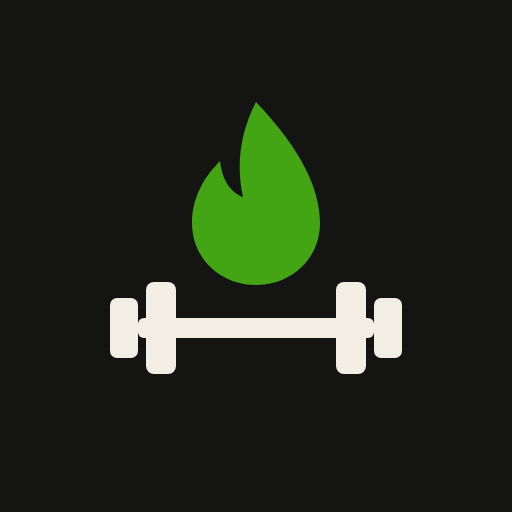
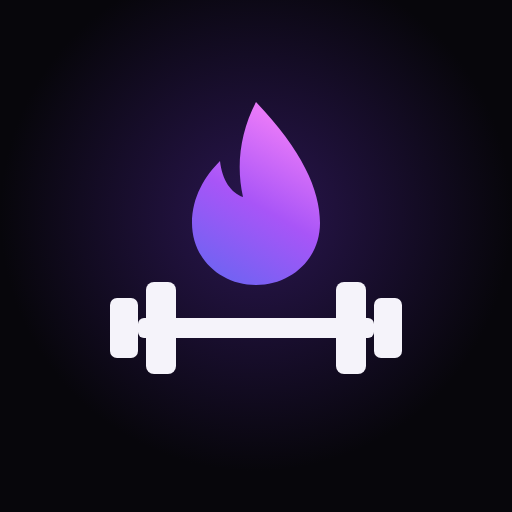
Violet neon palette, following the reference designs (#12)
- Dark: near-black page (#07060B), cards a step up (#121017) with a
  faint border and rounder corners, white/lavender-grey text.
- Primary buttons, selected segments and chips use a violet -> indigo
  gradient with a soft glow; the "Tempo" wordmark is gradient text; the
  selected tab is a violet tint.
- Light: pale lavender page, white cards, the same violet accents.
- Macro colours: pink protein, blue carbs, lavender fat, cyan water.
- Status colours keep their meaning (yellow below, Kelly on target, red
  over, Forest for fine-over); yellow warmed to amber and red to rose to
  sit with the violet.
- Icon: violet-to-pink gradient flame and white barbell on black with a
  faint violet glow. Manifest and theme colour follow.

Claude-Session: https://claude.ai/code/session_01NXvNAYrFZNhhmhDJaAwaWJ

Changed region(s): [[0.2188, 0.1562, 0.7812, 0.625], [0.4062, 0.6562, 0.5938, 0.6875]]

diff --git a/index.html b/index.html
@@ -6,7 +6,7 @@
 <meta name="apple-mobile-web-app-capable" content="yes">
 <meta name="mobile-web-app-capable" content="yes">
 <meta name="apple-mobile-web-app-title" content="MaxxTempo">
-<meta name="theme-color" content="#F6F1E7">
+<meta name="theme-color" content="#07060B">
 <script>try{var t=localStorage.getItem("mt:theme");if(t==="light"||t==="dark")document.documentElement.dataset.theme=t;}catch(e){}</script>
 <title>MaxxTempo</title>
 <meta name="description" content="Food, training, recovery and health tracking, with AI reading what you type.">
@@ -18,35 +18,38 @@
 <link rel="stylesheet" href="https://fonts.googleapis.com/css2?family=Barlow+Condensed:wght@500;600;700&family=Public+Sans:wght@400;500;600;700&display=swap">
 <style>
 :root{
-  --bg:#F6F1E7; --surface:#FFFFFF; --surface-2:#EDE4D3; --ink:#2A2B28; --ink-2:#55574F; --ink-3:#7A7C73; --line:#E1D6C2;
-  --accent:#1E7A1E; --accent-ink:#FFFFFF; --accent-text:#1A6B1A;
-  --protein:#C0643A; --carbs:#B8901A; --fat:#7B5EA7; --water:#3C7FB8;
-  --good:#297A33; --warn:#B7791F; --bad:#C0453A;
-  --btn:#1E7A1E; --btn-ink:#FFFFFF; --focus:#1E7A1E;
-  --tab-on:#1E7A1E; --tab-on-ink:#FFFFFF; --label-line:#2A2B28;
-  --st-under:#D4A72C; --st-under-t:#946F00; --st-at:#43A514; --st-at-t:#297A0B; --st-over:#D64533; --st-over-t:#C0392B; --st-plus:#1E7A1E; --st-plus-t:#1A6B1A;
+  --bg:#F4F1FB; --surface:#FFFFFF; --surface-2:#ECE6F8; --ink:#16131F; --ink-2:#4B4560; --ink-3:#736D86; --line:#E1D9F2;
+  --accent:#6D4AFF; --accent-ink:#FFFFFF; --accent-text:#5B3BE6;
+  --grad:linear-gradient(90deg,#9B5CF6 0%,#5B5BF0 100%); --glow:0 6px 18px rgba(109,74,255,.28);
+  --protein:#DB2777; --carbs:#2563EB; --fat:#8B5CF6; --water:#0891B2;
+  --good:#297A33; --warn:#B7791F; --bad:#D6334B;
+  --btn:#6D4AFF; --btn-ink:#FFFFFF; --focus:#6D4AFF;
+  --tab-on:rgba(109,74,255,.12); --tab-on-ink:#5B3BE6; --label-line:#16131F;
+  --st-under:#E0A21E; --st-under-t:#946400; --st-at:#43A514; --st-at-t:#297A0B; --st-over:#E03A55; --st-over-t:#C42A45; --st-plus:#1E7A1E; --st-plus-t:#1A6B1A;
   --display:"Barlow Condensed","Arial Narrow",Arial,sans-serif;
   --body:"Public Sans",system-ui,-apple-system,"Segoe UI",Roboto,sans-serif;
 }
 @media (prefers-color-scheme: dark){
   :root:not([data-theme="light"]){
     color-scheme:dark;
-    --bg:#141513; --surface:#1E201D; --surface-2:#2A2D29; --ink:#EAE4D6; --ink-2:#C2BAA6; --ink-3:#958F80; --line:#343831;
-    --accent:#43A514; --accent-ink:#141513; --accent-text:#5FB635;
-    --protein:#D98A62; --carbs:#CFAE4E; --fat:#A48DD0; --water:#6FA2CF;
-    --good:#6DB35E; --warn:#D9A03E; --bad:#E07A6E; --btn:#43A514; --btn-ink:#141513; --focus:#5FB635;
-    --tab-on:rgba(95,182,53,.16); --tab-on-ink:#6DC444; --label-line:#5A5E55;
-    --st-under:#D9AE45; --st-under-t:#E2BC5E; --st-at:#43A514; --st-at-t:#5FB635; --st-over:#DB5A4D; --st-over-t:#EE7E72; --st-plus:#288B37; --st-plus-t:#48A655;
+    --bg:#07060B; --surface:#121017; --surface-2:#1E1B26; --ink:#F5F3FA; --ink-2:#B3ADC4; --ink-3:#817B93; --line:#26222F;
+    --accent:#8B5CF6; --accent-ink:#FFFFFF; --accent-text:#A78BFA;
+    --grad:linear-gradient(90deg,#A855F7 0%,#6366F1 100%); --glow:0 0 22px rgba(139,92,246,.45);
+    --protein:#F472B6; --carbs:#60A5FA; --fat:#C4B5FD; --water:#22D3EE;
+    --good:#6DB35E; --warn:#F5B83D; --bad:#F2556E; --btn:#8B5CF6; --btn-ink:#FFFFFF; --focus:#A78BFA;
+    --tab-on:rgba(139,92,246,.18); --tab-on-ink:#C4B5FD; --label-line:#4A4458;
+    --st-under:#F5B83D; --st-under-t:#F7C55E; --st-at:#43A514; --st-at-t:#5FB635; --st-over:#F2556E; --st-over-t:#F77A8E; --st-plus:#288B37; --st-plus-t:#48A655;
   }
 }
 :root[data-theme="dark"]{
   color-scheme:dark;
-  --bg:#141513; --surface:#1E201D; --surface-2:#2A2D29; --ink:#EAE4D6; --ink-2:#C2BAA6; --ink-3:#958F80; --line:#343831;
-  --accent:#43A514; --accent-ink:#141513; --accent-text:#5FB635;
-  --protein:#D98A62; --carbs:#CFAE4E; --fat:#A48DD0; --water:#6FA2CF;
-  --good:#6DB35E; --warn:#D9A03E; --bad:#E07A6E; --btn:#43A514; --btn-ink:#141513; --focus:#5FB635;
-  --tab-on:rgba(95,182,53,.16); --tab-on-ink:#6DC444; --label-line:#5A5E55;
-  --st-under:#D9AE45; --st-under-t:#E2BC5E; --st-at:#43A514; --st-at-t:#5FB635; --st-over:#DB5A4D; --st-over-t:#EE7E72; --st-plus:#288B37; --st-plus-t:#48A655;
+  --bg:#07060B; --surface:#121017; --surface-2:#1E1B26; --ink:#F5F3FA; --ink-2:#B3ADC4; --ink-3:#817B93; --line:#26222F;
+  --accent:#8B5CF6; --accent-ink:#FFFFFF; --accent-text:#A78BFA;
+  --grad:linear-gradient(90deg,#A855F7 0%,#6366F1 100%); --glow:0 0 22px rgba(139,92,246,.45);
+  --protein:#F472B6; --carbs:#60A5FA; --fat:#C4B5FD; --water:#22D3EE;
+  --good:#6DB35E; --warn:#F5B83D; --bad:#F2556E; --btn:#8B5CF6; --btn-ink:#FFFFFF; --focus:#A78BFA;
+  --tab-on:rgba(139,92,246,.18); --tab-on-ink:#C4B5FD; --label-line:#4A4458;
+  --st-under:#F5B83D; --st-under-t:#F7C55E; --st-at:#43A514; --st-at-t:#5FB635; --st-over:#F2556E; --st-over-t:#F77A8E; --st-plus:#288B37; --st-plus-t:#48A655;
 }
 *{box-sizing:border-box}
 body{background:var(--bg);color:var(--ink);font-family:var(--body);font-size:15px;line-height:1.45;padding-inline:16px;padding-block:0 96px;-webkit-font-smoothing:antialiased}
@@ -63,7 +66,7 @@ button,input,select,textarea{font:inherit;color:inherit}
 /* header */
 .top{position:sticky;top:0;z-index:5;background:var(--bg);box-shadow:0 0 0 100vmax var(--bg);clip-path:inset(0 -100vmax);display:flex;align-items:center;justify-content:space-between;gap:12px;padding-block:calc(14px + env(safe-area-inset-top,0px)) 10px;border-bottom:1px solid var(--line)}
 .brand{font-family:var(--display);font-size:24px;font-weight:700;text-transform:uppercase;letter-spacing:.03em;white-space:nowrap}
-.brand span{color:var(--accent-text)}
+.brand span{background:var(--grad);-webkit-background-clip:text;background-clip:text;color:transparent}
 .datenav{display:flex;align-items:center;gap:4px}
 .datenav .d{font-weight:600;min-width:118px;text-align:center;font-size:14px}
 .iconbtn{border:1px solid var(--line);background:var(--surface);border-radius:8px;width:34px;height:34px;display:grid;place-items:center;cursor:pointer}
@@ -80,16 +83,16 @@ button,input,select,textarea{font:inherit;color:inherit}
 main{padding-block:16px}
 .grid{display:grid;gap:16px;grid-template-columns:1fr}
 @media (min-width:860px){.grid.two{grid-template-columns:1fr 1fr}.span2{grid-column:1/-1}}
-.panel{background:var(--surface);border:1px solid var(--line);border-radius:12px;padding:16px;display:flex;flex-direction:column;gap:12px;min-width:0}
+.panel{background:var(--surface);border:1px solid var(--line);border-radius:18px;padding:16px;display:flex;flex-direction:column;gap:12px;min-width:0}
 .panel-head{display:flex;align-items:baseline;justify-content:space-between;gap:8px;flex-wrap:wrap}
 
 /* logger */
 .logger textarea{width:100%;min-height:76px;resize:vertical;border:1px solid var(--line);border-radius:10px;background:var(--bg);padding:12px;line-height:1.4}
 .logger textarea:focus{border-color:var(--ink-3)}
 .row{display:flex;gap:8px;align-items:center;flex-wrap:wrap}
-.btn{border:1px solid var(--btn);background:var(--btn);color:var(--btn-ink);border-radius:9px;padding:9px 16px;font-weight:600;cursor:pointer}
+.btn{border:0;background:var(--grad);color:var(--btn-ink);box-shadow:var(--glow);border-radius:12px;padding:9px 16px;font-weight:600;cursor:pointer}
 .btn:disabled{opacity:.5;cursor:default}
-.btn.ghost{background:transparent;color:var(--ink);border-color:var(--line)}
+.btn.ghost{background:transparent;color:var(--ink);border:1px solid var(--line);box-shadow:none}
 .btn.ghost:hover{border-color:var(--ink-3)}
 .btn.sm{padding:6px 11px;font-size:13px}
 .chips{display:flex;gap:6px;flex-wrap:wrap}
@@ -158,7 +161,7 @@ main{padding-block:16px}
 /* stat tiles */
 .tiles{display:grid;grid-template-columns:repeat(2,1fr);gap:10px}
 @media (min-width:700px){.tiles{grid-template-columns:repeat(4,1fr)}}
-.tile{background:var(--surface);border:1px solid var(--line);border-radius:12px;padding:12px 14px;display:flex;flex-direction:column;gap:2px}
+.tile{background:var(--surface);border:1px solid var(--line);border-radius:16px;padding:12px 14px;display:flex;flex-direction:column;gap:2px}
 .tile .l{font-size:12px;text-transform:uppercase;letter-spacing:.07em;color:var(--ink-3);font-weight:600}
 .tile .v{font-family:var(--display);font-size:32px;font-weight:700;font-variant-numeric:tabular-nums;line-height:1.05}
 .delta{font-size:12.5px;font-weight:600;font-variant-numeric:tabular-nums}
@@ -166,7 +169,7 @@ main{padding-block:16px}
 
 .seg{display:inline-flex;border:1px solid var(--line);border-radius:9px;padding:2px;background:var(--surface)}
 .seg button{border:0;background:none;padding:5px 12px;border-radius:7px;cursor:pointer;font-weight:600;font-size:13px;color:var(--ink-2)}
-.seg button[aria-pressed="true"]{background:var(--btn);color:var(--btn-ink)}
+.seg button[aria-pressed="true"]{background:var(--grad);color:var(--btn-ink)}
 
 .tablewrap{overflow-x:auto}
 table{border-collapse:collapse;width:100%;font-size:14px}
@@ -220,7 +223,7 @@ details.micros>summary .muted{white-space:nowrap;margin-left:auto}
 .qt{font-size:14px;font-weight:600}
 .opts{display:flex;flex-wrap:wrap;gap:6px}
 .opt{border:1px solid var(--line);background:var(--surface);border-radius:999px;padding:6px 12px;font-size:13.5px;cursor:pointer}
-.opt[aria-pressed="true"]{background:var(--btn);color:var(--btn-ink);border-color:var(--btn)}
+.opt[aria-pressed="true"]{background:var(--grad);color:var(--btn-ink);border-color:transparent}
 .qin{border:1px solid var(--line);border-radius:8px;background:var(--surface);padding:8px 10px;width:100%}
 .act{display:flex;flex-direction:column;gap:6px;padding-block:10px;border-bottom:1px solid var(--line)}
 .act:last-child{border-bottom:0}

diff --git a/sw.js b/sw.js
@@ -1,6 +1,6 @@
 /* MaxxTempo service worker: the app opens offline after the first visit.
    Bump VERSION when shipping changes. */
-const VERSION = 'fuel-lift-v10';
+const VERSION = 'fuel-lift-v11';
 const SHELL = ['./', 'index.html', 'config.js', 'calc.js', 'foods.js', 'backend.js', 'app.js', 'manifest.json', 'icon-192.png', 'icon-180.png', 'icon-512.png'];
 const LIB = 'https://cdn.jsdelivr.net/npm/@supabase/supabase-js@2.117.2/dist/umd/supabase.js';
 
